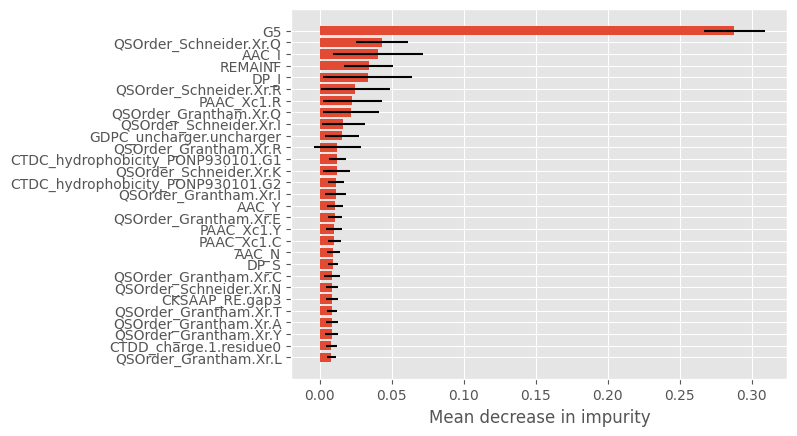
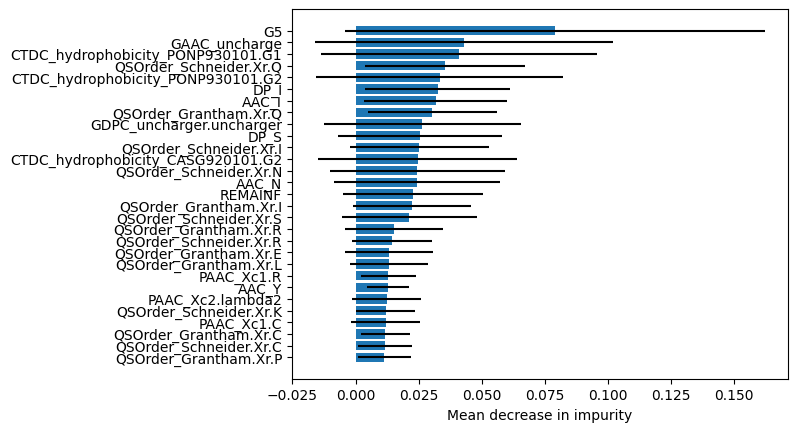
Add more minor changes

diff --git a/main.py b/main.py
@@ -4,7 +4,7 @@ import matplotlib.pyplot as plt
 import numpy as np
 import pickle
 import pandas as pd
-from sklearn.preprocessing import StandardScaler
+from sklearn.model_selection import KFold, cross_validate
 
 
 def main(t_r2=0.6, extract_features=False, train_hyperparams=False,
@@ -12,8 +12,7 @@ def main(t_r2=0.6, extract_features=False, train_hyperparams=False,
 
     # output file names
     aa_feature_file = "training_data/aa_features.csv"
-    # aa_feature_selected_file = "training_data/aa_features_selected.csv"
-    aa_feature_selected_file = "training_data/aa_features.csv"
+    aa_feature_selected_file = "training_data/aa_features_selected.csv"
     x_data_clean_file = "training_data/X.csv"
     y_data_clean_file = "training_data/y.csv"
     groups_clean_file = "training_data/groups.txt"
@@ -28,7 +27,7 @@ def main(t_r2=0.6, extract_features=False, train_hyperparams=False,
     if extract_features:
         features = ["MISC", "AAC", "QSOrder", "CTDC", "PAAC", "AC", "CTriad", "DistancePair", "GAAC", "Geary", "Moran",
                     "SOCNumber", "CKSAAP type 1", "CTDD", "DPC type 1", "GDPC type 1", "NMBroto", "PseKRAAC type 10"]
-        # features = ["MISC", "AAC", "QSOrder", "CTDC", "PAAC"]
+
         # Extract features from amino acid sequences
         ExtractSeqFeatures.extractSequenceFeatures("training_data/meltome_seqs.fasta", features=features)
 
@@ -50,22 +49,25 @@ def main(t_r2=0.6, extract_features=False, train_hyperparams=False,
     X, y, datasets = PredictKeyTemps.remove_y_outliers_per_group(x_data, -y_data.loc[:, 'beta_param_2'], datasets)
     print("Reduced number of samples: %d" % X.shape[0])
 
+    # Compare different regression models with default settings
     print("\n\nTesting different regression approaches:\n")
     print("Approach\tRMSE\tMAE\tMAPE\tR2\trhoP")
-    # PredictKeyTemps.lasso(X, y)
-    # PredictKeyTemps.ridge(X, y)
-    # PredictKeyTemps.svr_rbf(X, y)
-    # PredictKeyTemps.svr_linear(X, y)
-    # PredictKeyTemps.adaboost(X, y)
-    # PredictKeyTemps.xgboost_reg(X, y, datasets)
-    # PredictKeyTemps.mlpreg(X, y, datasets)
-    # PredictKeyTemps.bayesian_ridge(X, y, datasets)
-    # PredictKeyTemps.gbdt(X, y, datasets)
-    # PredictKeyTemps.cubist_reg(X, y, datasets)
-    # PredictKeyTemps.knn(X, y, datasets)
-    # PredictKeyTemps.randomforest(X, y, datasets, x_scaler_file=x_scaler_file)
 
-    regr = PredictKeyTemps.randomforest(X, y, datasets, optimal=False, hyperparam=train_hyperparams,
+    PredictKeyTemps.lasso(X, y)
+    PredictKeyTemps.ridge(X, y)
+    PredictKeyTemps.svr_rbf(X, y)
+    PredictKeyTemps.svr_linear(X, y)
+    PredictKeyTemps.adaboost(X, y)
+    PredictKeyTemps.xgboost_reg(X, y, datasets)
+    PredictKeyTemps.mlpreg(X, y, datasets)
+    PredictKeyTemps.bayesian_ridge(X, y, datasets)
+    PredictKeyTemps.gbdt(X, y, datasets)
+    PredictKeyTemps.cubist_reg(X, y, datasets)
+    PredictKeyTemps.knn(X, y, datasets)
+    PredictKeyTemps.randomforest(X, y, datasets, x_scaler_file=x_scaler_file, optimal=False)
+
+    # Random Forest regression
+    regr = PredictKeyTemps.randomforest(X, y, datasets, optimal=True, hyperparam=train_hyperparams,
                                         fselect=select_features, n_jobs=n_jobs, rfecv_result_file=rfecv_result_file,
                                         feature_support_file=feature_ranking_rfecv_file, x_scaler_file=x_scaler_file)
 
@@ -88,6 +90,7 @@ def main(t_r2=0.6, extract_features=False, train_hyperparams=False,
         for fi in f_i:
             f.write(fi[0] + "\t" + str(fi[1]) + "\n")
 
+    #
     if select_features:
         PredictKeyTemps.write_rfecv_features(feature_ranking_rfecv_file,
                                              feature_names_file)
@@ -96,16 +99,15 @@ def main(t_r2=0.6, extract_features=False, train_hyperparams=False,
                                                 aa_feature_selected_file)
         PredictKeyTemps.plot_rfecv_scores(rfecv_result_file, 2839, 10)
 
-
     # cross validation for predictor performance
-    '''scoring = ['neg_root_mean_squared_error', 'neg_mean_absolute_error', 'neg_mean_absolute_percentage_error',
+    scoring = ['neg_root_mean_squared_error', 'neg_mean_absolute_error', 'neg_mean_absolute_percentage_error',
                'r2']
-    scaler = StandardScaler().fit(X)
+    scaler = pickle.load(open(x_scaler_file, 'rb'))
     X_transformed = scaler.transform(X)
     kfsplit = KFold(n_splits=5, shuffle=True, random_state=42)
     scores = cross_validate(regr, X_transformed, y, scoring=scoring, cv=kfsplit, n_jobs=n_jobs, pre_dispatch=n_jobs, verbose=2)
-    pd.DataFrame(scores).to_csv("scores_rf_optimal.csv")'''
+    pd.DataFrame(scores).to_csv("scores_rf_optimal.csv")
 
 
 if __name__ == '__main__':
-    main(t_r2=0.6, extract_features=True, train_hyperparams=False, select_features=False, n_jobs=4)
+    main(t_r2=0.6, extract_features=False, train_hyperparams=False, select_features=False, n_jobs=4)

diff --git a/ExtractSeqFeatures.py b/ExtractSeqFeatures.py
@@ -178,7 +178,7 @@ def count_group_fequencies(seq):
     }
     seq_length = len(seq)
     group_freqs = []
-    for g in groups.keys():#
+    for g in groups.keys():
         group_freqs.append(np.sum([seq.count(groups[g][i]) for i in range(0, len(groups[g]))])/seq_length)
 
     return np.asarray(group_freqs)
